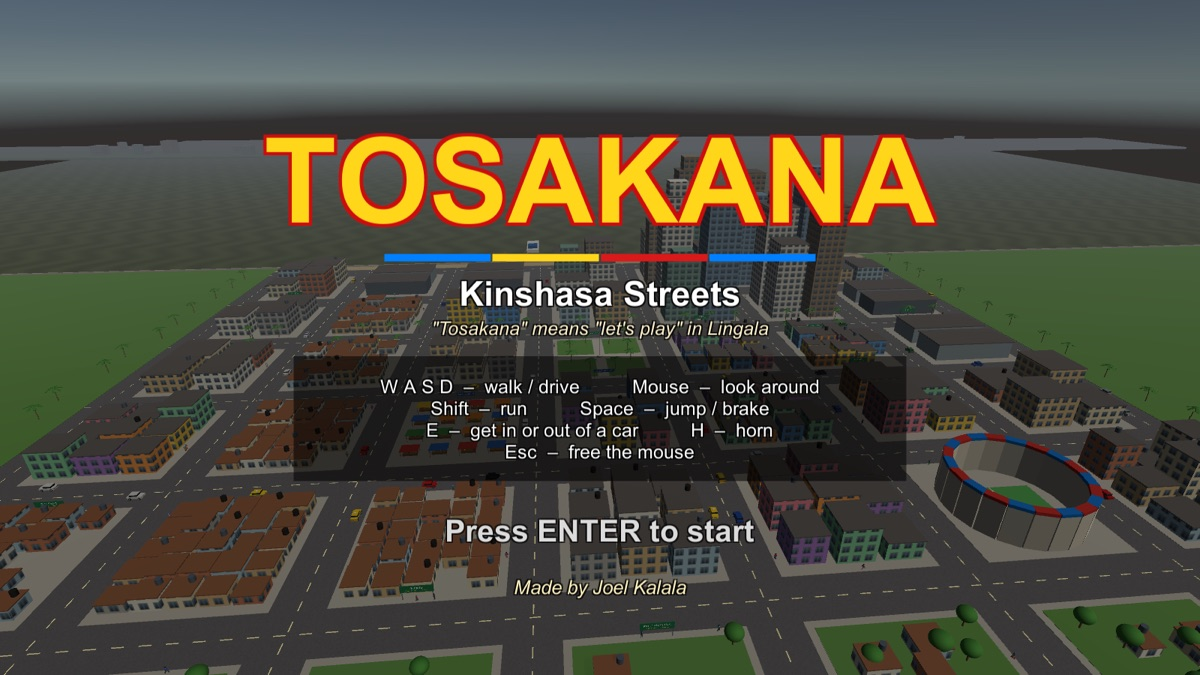
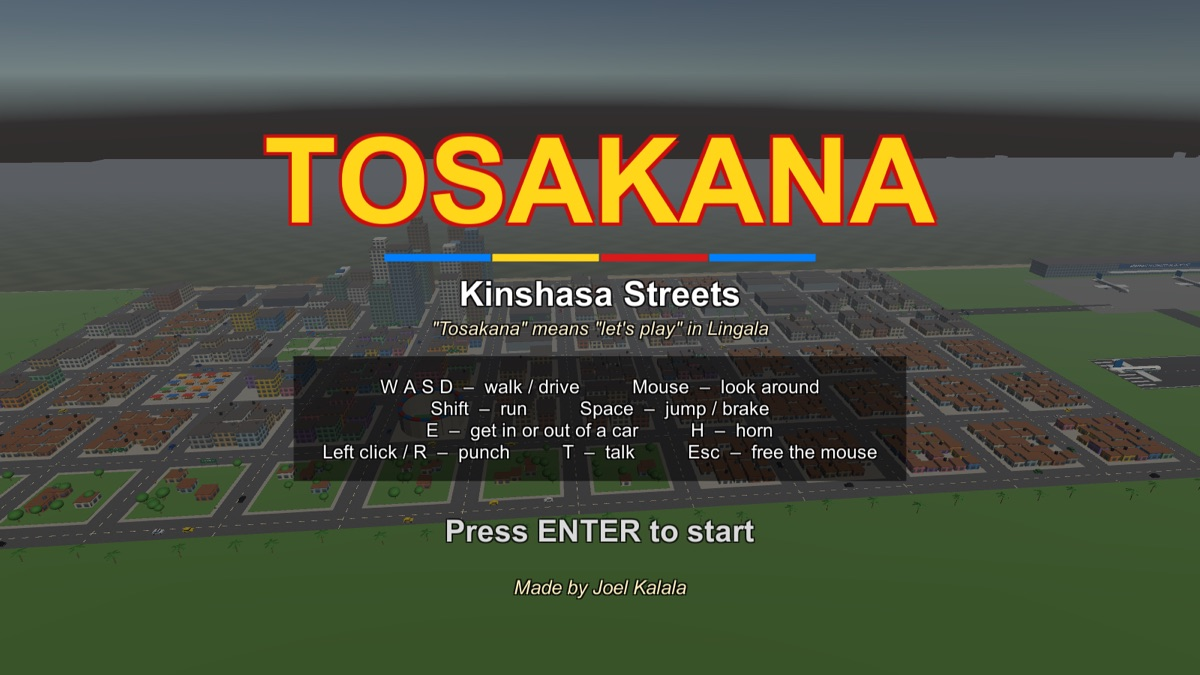
README: Versions 6 and 7, new pictures

diff --git a/README.md b/README.md
@@ -16,7 +16,8 @@ before time runs out. Every job pays money.
 | ![Traffic at the Grand Marché](Docs/12_traffic_at_crossroads.jpg) | ![A seller carrying a basin](Docs/13_basin_seller.jpg) |
 | ![Police chase with 3 wanted stars](Docs/14_police_chase.jpg) | ![BUSTED](Docs/15_busted.jpg) |
 | ![Talking in Lingala in Lemba](Docs/16_talking_in_lingala.jpg) | ![Mont-Ngafula](Docs/18_bumbu_and_mont_ngafula.jpg) |
-| ![A roulage officer on Boulevard du 30 Juin](Docs/19_roulage_officer.jpg) | |
+| ![A roulage officer on Boulevard du 30 Juin](Docs/19_roulage_officer.jpg) | ![They fight back](Docs/21_they_fight_back.jpg) |
+| ![N'djili airport terminal](Docs/23_ndjili_terminal.jpg) | ![Flying over Kinshasa](Docs/24_flying_over_kinshasa.jpg) |
 
 ## Places in the city
 - **Place du 30 Juin** – the square with the DRC flag (you start here)
@@ -37,6 +38,8 @@ before time runs out. Every job pays money.
 | E | get in or out of a car |
 | H | horn |
 | T | talk to someone (in Lingala) |
+| Left click / R | punch |
+| In a plane | W/S speed · A/D turn · ↑ or Space climb · ↓ or C dive |
 | Esc | free the mouse (click to take it back) |
 
 ## Version 1 has
@@ -85,6 +88,18 @@ before time runs out. Every job pays money.
 - **End of a mission:** the customer thanks you and blesses you: *"Matondo mingi! Nzambe apambola yo!"*
 - **Roulage officers** stand in the middle of 5 busy crossroads. They whistle, wave, and the traffic stops and goes when they say.
   They shout *"Leka! Leka!"* and *"Telema kuna!"* Hit one and you get 2 wanted stars
+
+## Version 6 adds: fights, a bigger Kinshasa and N'djili airport 🥊
+- **Punch** with left click or R. People fall, then run away (*"Bosalisa ngai!"*) or fight back (*"Yaka! Tobunda!"*)
+- A **health bar**; if it runs out you are KNOCKED OUT (*"Babeti yo!"*)
+- Wanted on foot: **police officers get out of their cars** and run at you (*"Maboko likolo!"*). Three punches knock one down
+- The city grows east: **Matete, Masina, N'djili, Kimbanseke, Kingasani** and **Boulevard Lumumba** (17 communes, 845 buildings)
+- **Aéroport International de N'djili**: runway, terminal, control tower, planes, and a plane that takes off again and again
+
+## Version 7 adds: fly the planes ✈
+- Press **E** next to a plane at the terminal to get in
+- W/S speed, A/D turn, ↑ or Space climb (when fast enough), ↓ or C dive; speed and height on the screen
+- Hit a building or the ground too hard: **CRASHED** (*"Avion ekwei!"*)
 
 ## How to open
 Open the folder in Unity Hub (Unity 2022.3). The game is in `Assets/Scenes/Main.unity`. Press ▶ Play.
